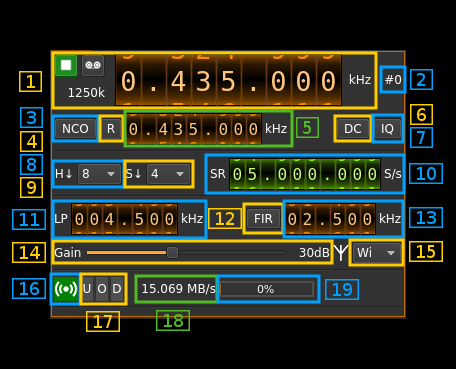
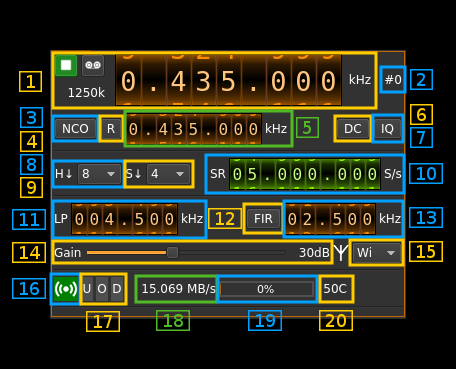
LimeSDR: updated GUI documentation

Changed region(s): [[0.6754, 0.7453, 0.7982, 0.8943], [0.5219, 0.8347, 0.6447, 0.8943]]

diff --git a/plugins/samplesink/limesdroutput/readme.md b/plugins/samplesink/limesdroutput/readme.md
@@ -128,3 +128,7 @@ This is the stream throughput in MB/s and is usually about 3 times the sample ra
 <h3>19: FIFO status</h3>
 
 This is the fill percentage of the Tx FIFO in the LimeSuite interface. In normal conditions this should be ~100%. On the picture the Tx is not started.
+
+<h3>20: Board temperature</h3>
+
+This is the board temperature in degrees Celsius updated every ~5s. Before the first probe the display marks "00C" this is normal.

diff --git a/plugins/samplesource/limesdrinput/readme.md b/plugins/samplesource/limesdrinput/readme.md
@@ -146,3 +146,7 @@ This is the stream throughput in MB/s and is usually about 3 times the sample ra
 <h3>19: FIFO status</h3>
 
 This is the fill percentage of the Rx FIFO in the LimeSuite interface. It should be zero most of the time.
+
+<h3>20: Board temperature</h3>
+
+This is the board temperature in degrees Celsius updated every ~5s. Before the first probe the display marks "00C" this is normal.
